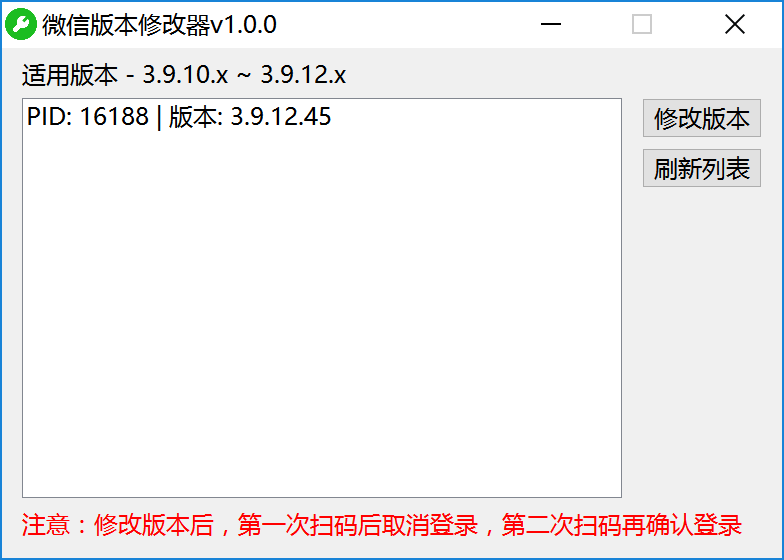
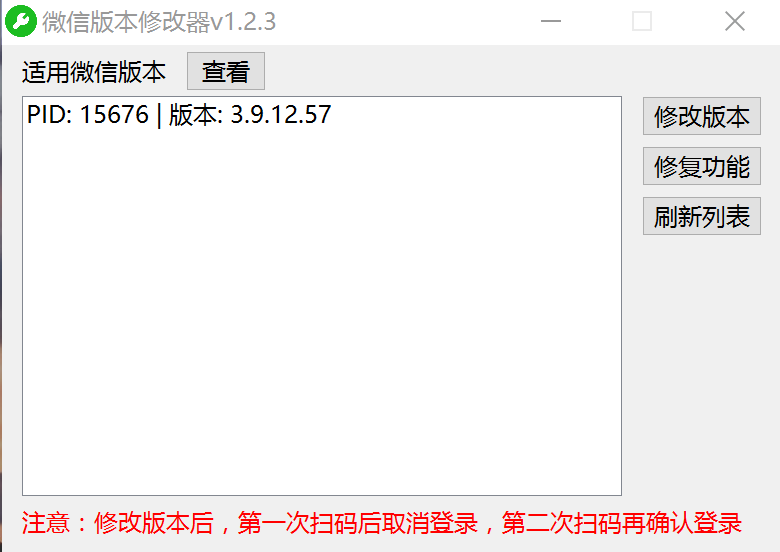
update

Changed region(s): [[0.0, 0.0, 1.0, 1.0], [0.0, 0.0924, 0.8, 0.2464]]

diff --git a/readme.md b/readme.md
@@ -16,9 +16,9 @@
 3. 打开微信以及该工具  
 4. 选择需要改版本的微信进程  
 5. 点击修改版本，弹出修改成功即可  
-6. 注意！！！ 修改版本后，第一次扫码后取消登录，
-第二次扫码再确认登录  
-（或者扫码2次都确认登录也可，第一次还是会提示版本低，第二次就能登上）  
+6. 注意！！！ 修改版本后，第一次扫码后取消登录，再扫第二次扫码再确认登录  
+（如显示 "当前客户端版本过低，请前往应用商店升级到最新版本客户端后再登录。" 直接再扫码一次登录即可）  
+7. 登录完后点击修复功能  
 
 ### 支持
 如果工具对您有帮助，请给个⭐或请我喝杯咖啡吧~  
